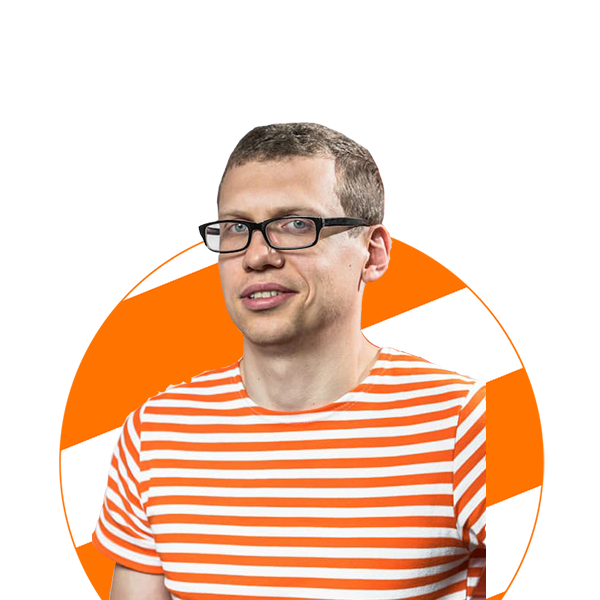
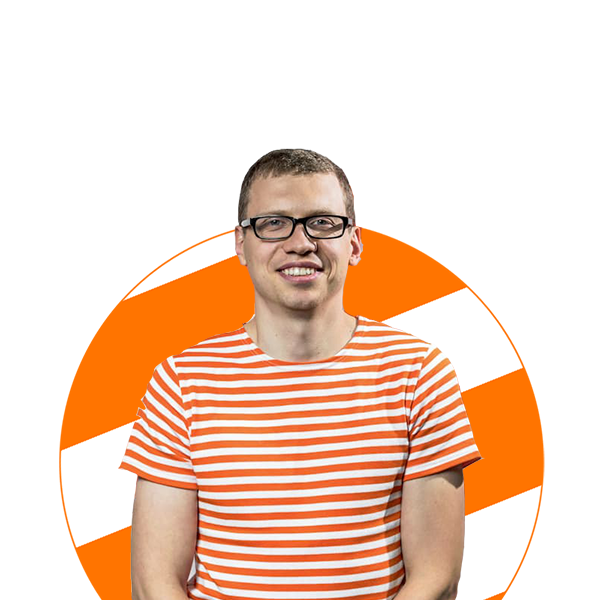
new team img

Changed region(s): [[0.15, 0.18, 0.81, 1.0]]

diff --git a/index.html b/index.html
@@ -508,7 +508,13 @@
               <div class="section_6_container">
                 <div class="specialist_card hidden_mobile">
                   <div class="specialist_img_container ">
-                    <img class="specialist_img" src="./src/team/2mariadozorova@1x.png" alt="specialist">
+                    <picture>               
+                      <img  src="./src/team/dozorova1.png"
+                            srcset="./src/team/dozorova2.png 2x"
+                            alt="specialist"
+                            class="specialist_img"
+                            >
+                    </picture>
                   </div>
                   <p class="specialist_name">Мария Дозорова</p>
                   <p class="specialist_position">Партнёр</p>
